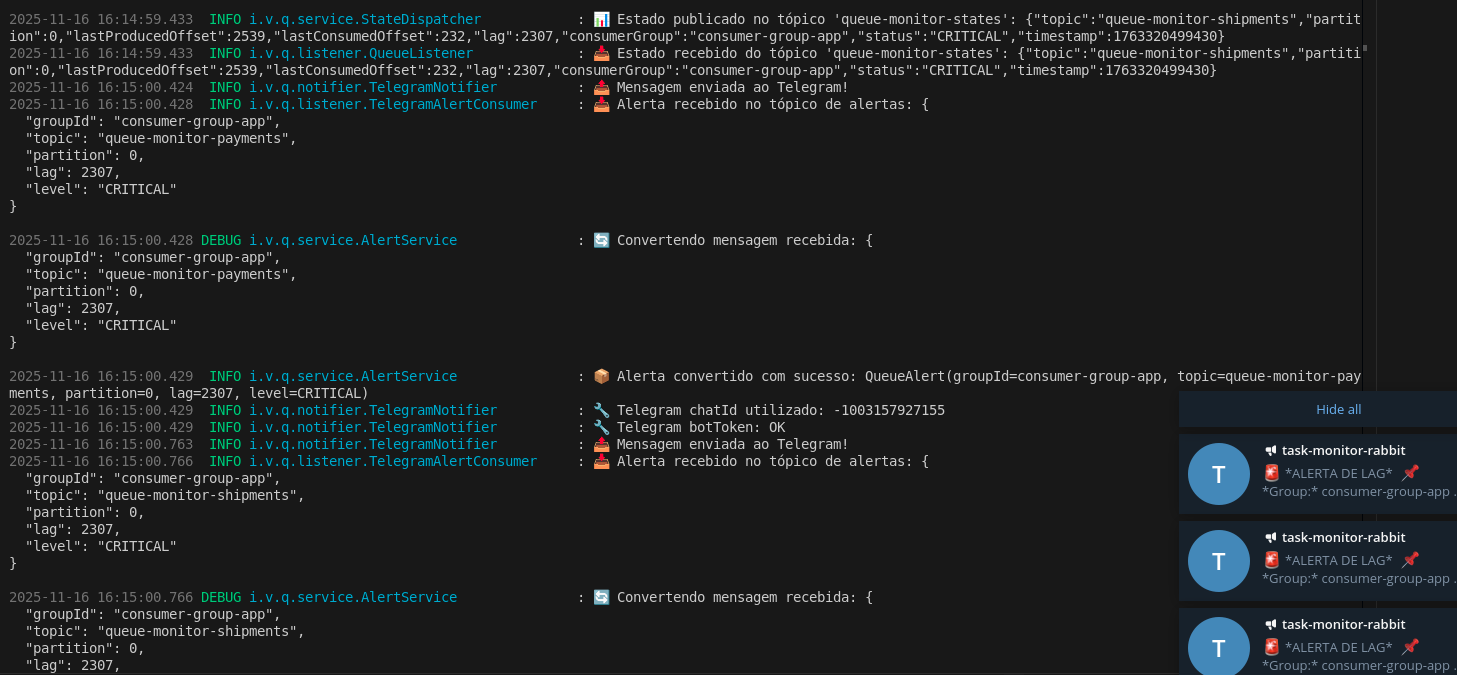
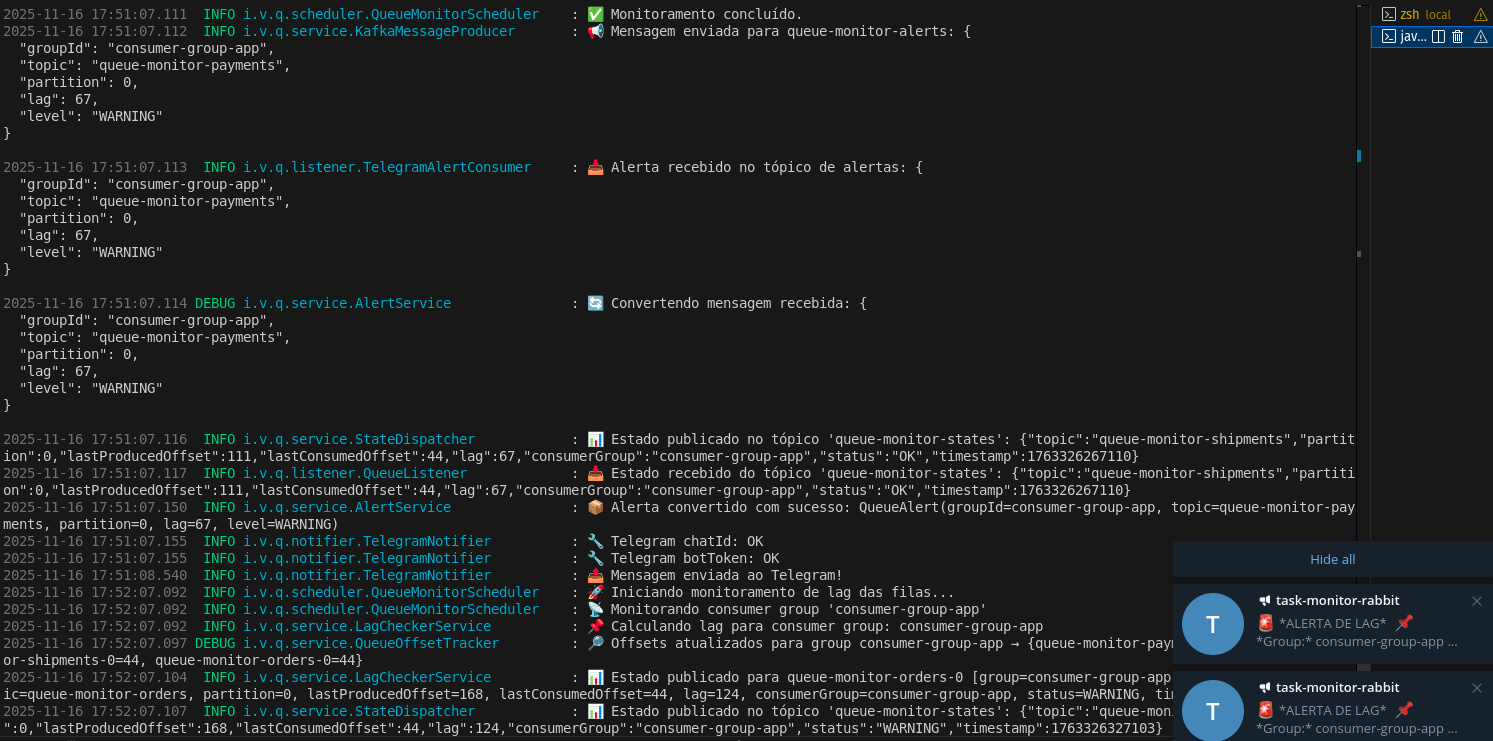
docs(projeto): Atualização da documentação

Changed region(s): [[0.0, 0.0, 1.0, 1.0], [0.3706, 0.4044, 0.5868, 0.4356], [0.4015, 0.3422, 0.5868, 0.3733]]

diff --git a/src/main/java/io/viana/queue_alert_engine/notifier/TelegramNotifier.java b/src/main/java/io/viana/queue_alert_engine/notifier/TelegramNotifier.java
@@ -24,7 +24,7 @@ public class TelegramNotifier {
         String chatId = telegramProperties.getChatId();
         String token = telegramProperties.getBotToken();
 
-        log.info("🔧 Telegram chatId utilizado: {}", chatId);
+        log.info("🔧 Telegram chatId: {}", chatId != null ? "OK" : "NULL");
         log.info("🔧 Telegram botToken: {}", token != null ? "OK" : "NULL");
 
         String url = "https://api.telegram.org/bot" + token + "/sendMessage";
